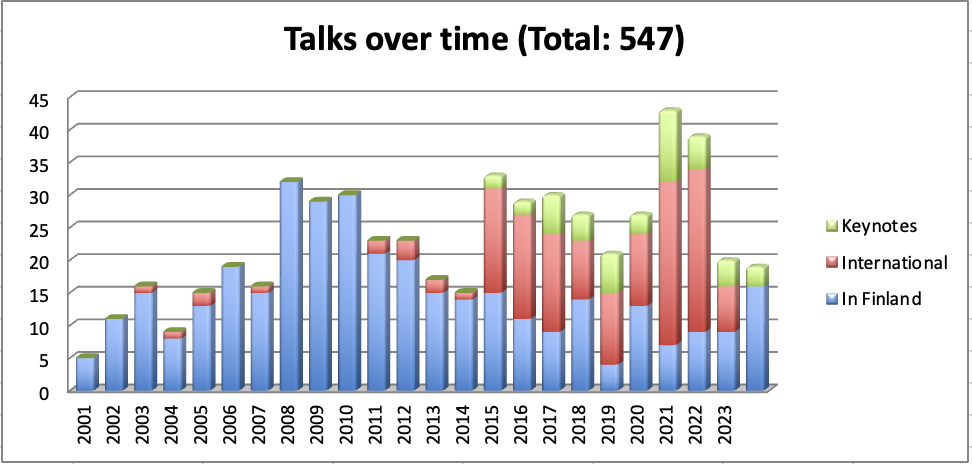
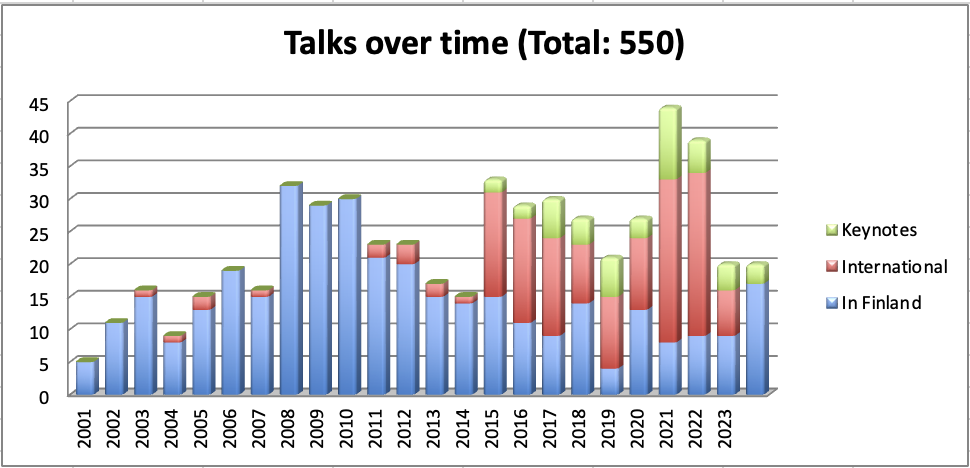
Update brochures and stats

diff --git a/past_talks/index.html b/past_talks/index.html
@@ -67,16 +67,6 @@
         </div>
 
         <div class="card2">
-            <div class="timecircle">1 day</div>
-            <div class="talktitle">Sovella nykypäivän tekoälyä testauksessasi / Apply AI of Today on Your Testing</div>
-            <div class="talktype">COURSE</div>
-            <div class="wherewhenwhere">TIVIA ry, January 22th 2025, Helsinki, Finland</div>
-            <div class="wherewhenwhere"><a href="https://tivia.fi/event/sovella-nykypaivan-tekoalya-testauksessasi-1090/register">TIVIA ry</a>, November 6th 2024, Helsinki, Finland</div>
-            <a href="https://github.com/maaretp/talks/blob/main/course_apply_ai_of_today_on_your_testing.md"><i class="fas fa-bars"></i></a>
-            <div class="talktheme">#AI, #Testing, #Hands-on</div>
-        </div>
-
-        <div class="card2">
             <div class="timecircle">45 min</div>
             <div class="status">NEW</div>
             <div class="talktitle">Code or Low Code - Navigating the Test Automation Options</div>
@@ -1617,7 +1607,51 @@
         <div class="box2">
 
             <div class="card3">
-            <div class="timecircle">1 day</div>
+                <div class="timecircle">1 day</div>
+                <div class="talktitle">Sovella nykypäivän tekoälyä testauksessasi / Apply AI of Today on Your Testing</div>
+                <div class="talktype">COURSE</div>
+                <div class="wherewhenwhere">TIVIA ry, January 22th 2025, Helsinki, Finland</div>
+                <div class="wherewhenwhere"><a href="https://tivia.fi/event/sovella-nykypaivan-tekoalya-testauksessasi-1090/register">TIVIA ry</a>, November 6th 2024, Helsinki, Finland</div>
+                <a href="https://github.com/maaretp/talks/blob/main/course_apply_ai_of_today_on_your_testing.md"><i class="fas fa-bars"></i></a>
+                <div class="talktheme">#AI, #Testing, #Hands-on</div>
+            </div>
+
+            <div class="card3">
+                <div class="timecircle">2 day</div>
+                <div class="talktitle">Python for Testing</div>
+                <div class="talktype">COURSE</div>
+                <div class="wherewhenwhere">Co-Taught with Ru Cindrea (March 2022), Online</div>
+                <a href="https://github.com/maaretp/talks/blob/main/course_python_for_testing.md"><i class="fas fa-bars"></i></a>
+                <div class="talktheme">#Python, #Testing, #Hands-on</div>
+            </div>
+
+            <div class="card3">
+                <div class="timecircle">1 day</div>
+                <div class="talktitle">Exploratory Testing Foundations</div>
+                <div class="talktype">COURSE</div>
+                <div class="wherewhenwhere">Company event, 2021, Online</div>
+                <a href="https://github.com/maaretp/talks/blob/main/course_exploratory_testing_foundations.md"><i class="fas fa-bars"></i></a>
+                <div class="talktheme">#ContemporaryExploratoryTesting, #Testing, #Hands-on</div>
+            </div>
+
+            <div class="card3">
+                <div class="timecircle">1 day</div>
+                <div class="talktitle">Exploratory Testing on Programmatic (Computer) Interfaces</div>
+                <div class="talktype">COURSE</div>
+                <div class="wherewhenwhere">Conference for Association for Software Testing (CAST) 2019 (12.8.2019), Cocoa Beach, Florida, USA</div>
+                <div class="wherewhenwhere">Sanae BEER.EX (29.-30.9.2022), Bratislava, Slovakia</div>
+                <a href="https://github.com/maaretp/talks/blob/main/course_exploratory_testing_on_computer_interfaces_apis.md"><i class="fas fa-bars"></i></a>
+            </div>
+
+            <div class="card3">
+                <div class="timecircle">1 day</div>
+                <div class="talktitle">Social Software Testing Approaches</div>
+                <div class="talktype">COURSE</div>
+                <div class="wherewhenwhere">Testing Assembly, (22.9.2022) Helsinki, Finland</div>
+            </div>
+
+            <div class="card3">
+                <div class="timecircle">1 day</div>
                 <div class="talktitle">Exploratory Testing Work Course</div>
                 <div class="talktype">COURSE</div>
                 <div class="wherewhenwhere">Customer Organization, London, UK (16.1.2019)</div>
@@ -1634,6 +1668,7 @@
                 <div class="wherewhenwhere">Customer Organization, November 18nd 2009, Helsinki, Finland </div>
                 <div class="wherewhenwhere">Flander, September 17th 2009, Oulu, Finland </div>
                 <div class="wherewhenwhere">Trial Course, May 5th 2005, Helsinki, Finland </div>
+                <a href="https://github.com/maaretp/talks/blob/main/course_exploratory_testing_work_course.md"><i class="fas fa-bars"></i></a>
             </div>
 
         <div class="card3">
@@ -1647,6 +1682,7 @@
             <div class="wherewhenwhere">Alma Talent, March 18th & 19th, Helsinki, Finland</div>
             <div class="wherewhenwhere">Alma Talent, September 4th & 5th 2018, Helsinki, Finland</div>
             <div class="wherewhenwhere">Alma Talent, February 15th & 16th, Helsinki, Finland</div>
+            <a href="https://github.com/maaretp/talks/blob/main/FI/%20course_fi_2d_exploratory_testing_work_course.md"><i class="fas fa-bars"></i></a>
         </div>
 
         <div class="card3">
@@ -1655,13 +1691,6 @@
             <div class="talktype">COURSE</div>
             <div class="wherewhenwhere">Customer Organization (20.12.2021), Online</div>
             <div class="wherewhenwhere">Customer Organization (21.12.2021), Online</div>
-            </div>
-
-            <div class="card3">
-                <div class="timecircle">2 day</div>
-                <div class="talktitle">Python for Testing</div>
-                <div class="talktype">COURSE</div>
-                <div class="wherewhenwhere">Co-Taught with Ru Cindrea (March 2022), Online</div>
             </div>
 
             <div class="card3">
@@ -1709,21 +1738,6 @@
                 <div class="wherewhenwhere">Agile Testing Days 2017, Potsdam, Germany (13.11.2017)</div>
                 <div class="wherewhenwhere">SEETEST Conference 2017, Sofia, Bulgaria (27.9.2017)</div>
                 <div class="talktheme">#EnsembleTesting, #EnsembleProgramming</div>
-            </div>
-
-            <div class="card3">
-                <div class="timecircle">1 day</div>
-                <div class="talktitle">Social Software Testing Approaches</div>
-                <div class="talktype">COURSE</div>
-                <div class="wherewhenwhere">Testing Assembly, (22.9.2022) Helsinki, Finland</div>
-            </div>
-
-            <div class="card3">
-                <div class="timecircle">1 day</div>
-                <div class="talktitle">Exploratory Testing on Programmatic (Computer) Interfaces</div>
-                <div class="talktype">COURSE</div>
-                <div class="wherewhenwhere">Conference for Association for Software Testing (CAST) 2019 (12.8.2019), Cocoa Beach, Florida, USA</div>
-                <div class="wherewhenwhere">Sanae BEER.EX (29.-30.9.2022), Bratislava, Slovakia</div>
             </div>
 
     <div class="card3">
